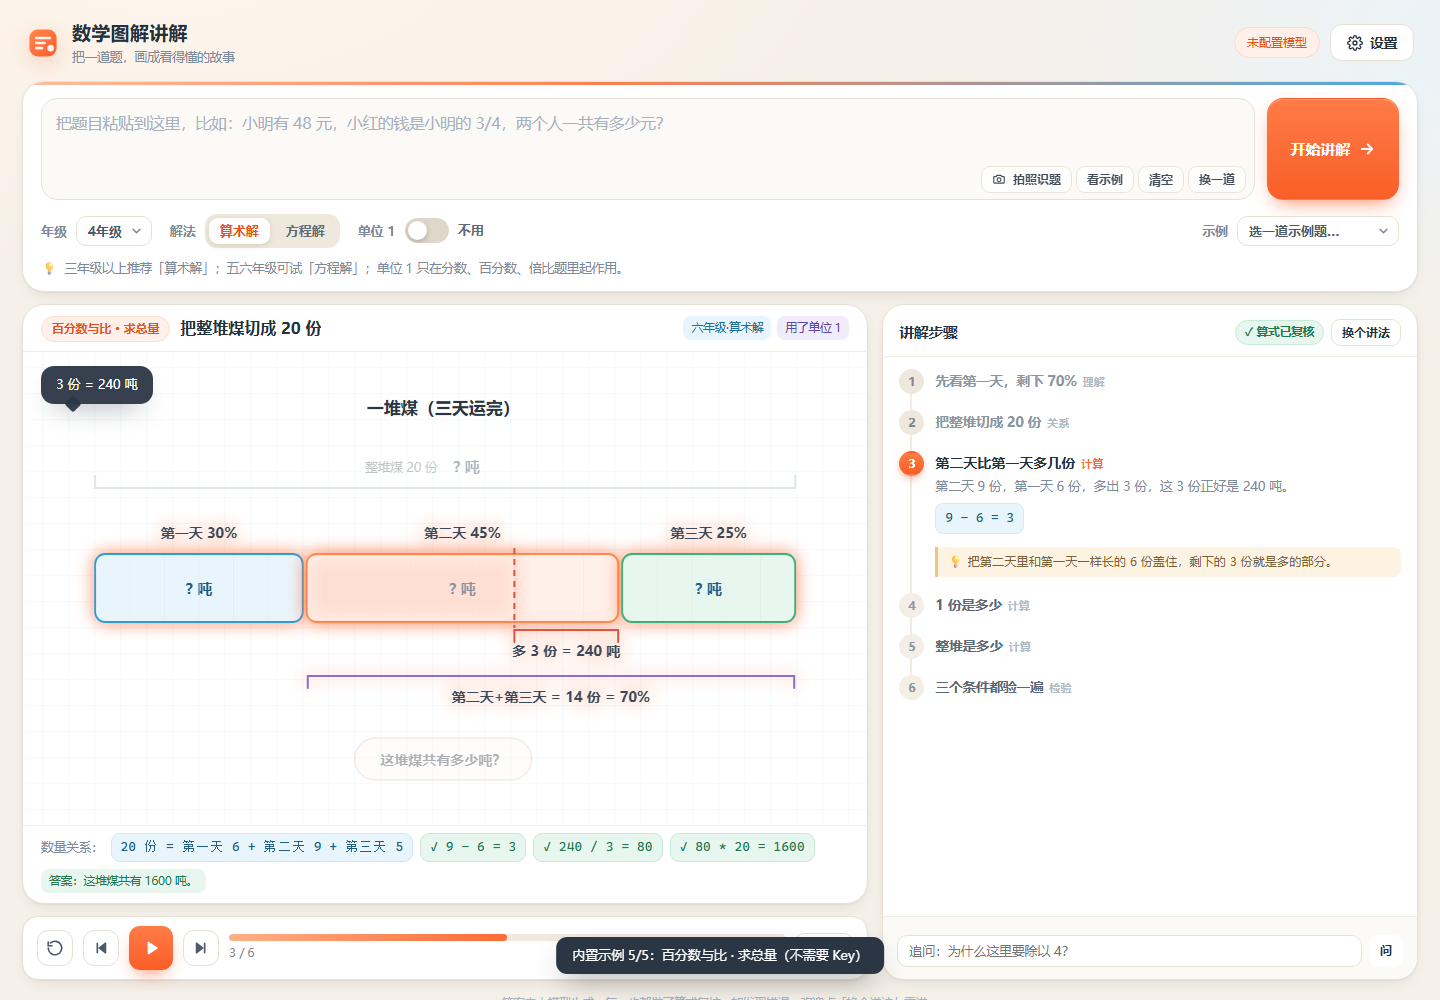
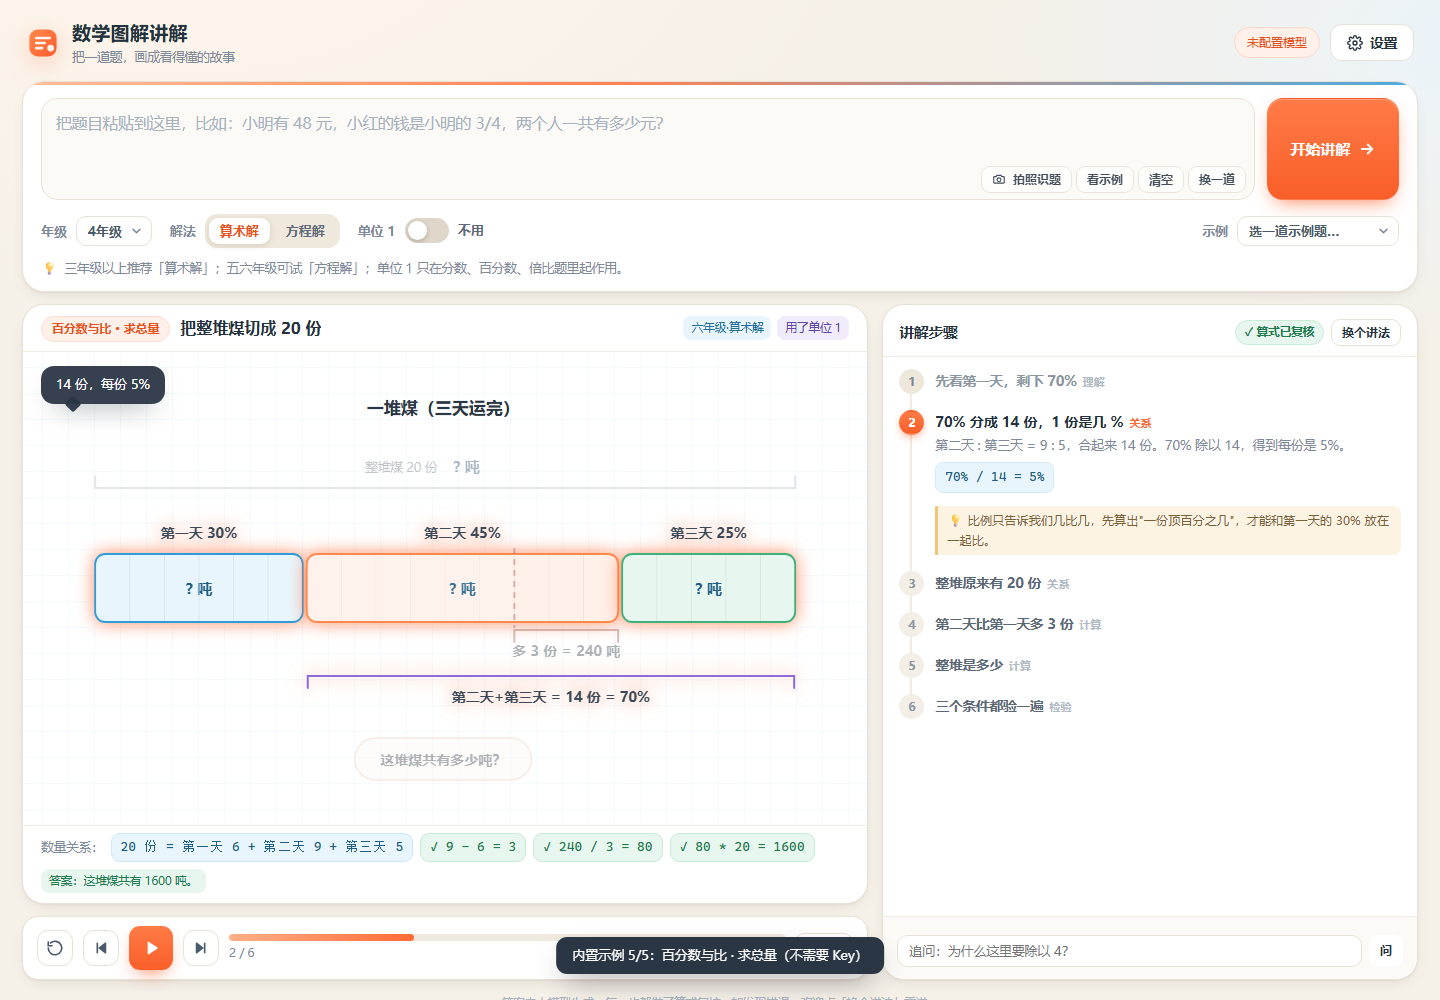
fix: 补齐"20 份"的来历，并把"新数量必须交代出处"写成硬规则
原讲解直接从 70% 跳到"把整堆切成 20 份"，孩子会卡在这。
正确链条是：70% 按 9:5 分成 14 份 → 70% ÷ 14 = 5%/份 → 30% ÷ 5 = 6 份 → 6 + 14 = 20 份。

- 内置示例 5 重写为 6 步，把"1 份是 5%""整堆 20 份"两步补上
- 提示词新增教学法 H：百分数/分数/比混用时先统一份数，再算
- 提示词新增规则 13：自己引入的新数量（几份、单位 1、假设值）
  必须在同一步当场算出它的来历，不许凭空出现
- 范例 E 同步改成正确的推导链
- 自测 72 项

diff --git a/src/js/45-demo.js b/src/js/45-demo.js
@@ -287,26 +287,26 @@
         ops: [{ op: 'focus', ids: ['a'], text: '第一天 30%' }, { op: 'focus', ids: ['b', 'c'], text: '合起来 70%' }]
       },
       {
-        phase: '关系', title: '把整堆切成 20 份',
-        text: '30% 正好是 20 份里的 6 份，剩下的 14 份按 9 : 5 分成 9 份和 5 份。',
-        math: '', why: '分母取 20，30% = 6/20，70% = 14/20，全都变成整数份，好算。',
-        ops: [{ op: 'focus', ids: ['g1'], text: '14 份 = 70%' }]
+        phase: '关系', title: '70% 分成 14 份，1 份是几 %',
+        text: '第二天 : 第三天 = 9 : 5，合起来 14 份。70% 除以 14，得到每份是 5%。',
+        math: '70% / 14 = 5%', why: '比例只告诉我们几比几，先算出"一份顶百分之几"，才能和第一天的 30% 放在一起比。',
+        ops: [{ op: 'focus', ids: ['g1'], text: '14 份，每份 5%' }]
       },
       {
-        phase: '计算', title: '第二天比第一天多几份',
-        text: '第二天 9 份，第一天 6 份，多出 3 份，这 3 份正好是 240 吨。',
-        math: '9 - 6 = 3', why: '把第二天里和第一天一样长的 6 份盖住，剩下的 3 份就是多的部分。',
-        ops: [{ op: 'focus', ids: ['cmp'], text: '3 份 = 240 吨' }]
+        phase: '关系', title: '整堆原来有 20 份',
+        text: '第一天 30% 里有 30 ÷ 5 = 6 份，加上后面的 14 份，整堆就是 6 + 14 = 20 份。',
+        math: '6 + 14 = 20', why: '份数要统一才能相加：前面算出 1 份 = 5%，所以 30% 正好是 6 份。',
+        ops: [{ op: 'focus', ids: ['a'], text: '6 份' }, { op: 'focus', ids: ['total'], text: '一共 20 份' }, { op: 'pulse', ids: ['total'] }]
       },
       {
-        phase: '计算', title: '1 份是多少',
-        text: '3 份是 240 吨，那 1 份就是 240 ÷ 3 = 80 吨。',
-        math: '240 / 3 = 80', why: '先求 1 份，最后才能求整堆。',
-        ops: [{ op: 'set', id: 'a', text: '480 吨' }, { op: 'set', id: 'b', text: '720 吨' }, { op: 'set', id: 'c', text: '400 吨' }]
+        phase: '计算', title: '第二天比第一天多 3 份',
+        text: '第二天 9 份、第一天 6 份，多出 3 份；这 3 份正好是 240 吨，所以 1 份 = 80 吨。',
+        math: '240 / 3 = 80', why: '把第二天里和第一天一样长的 6 份盖住，剩下的 3 份就是多的那部分。',
+        ops: [{ op: 'focus', ids: ['cmp'], text: '3 份 = 240 吨' }, { op: 'set', id: 'a', text: '480 吨' }, { op: 'set', id: 'b', text: '720 吨' }, { op: 'set', id: 'c', text: '400 吨' }]
       },
       {
         phase: '计算', title: '整堆是多少',
-        text: '一共 20 份，每份 80 吨，20 × 80 = 1600 吨。',
+        text: '整堆 20 份，每份 80 吨，20 × 80 = 1600 吨。',
         math: '80 * 20 = 1600', why: '份数 × 每份的量 = 总量。',
         ops: [{ op: 'set', id: 'total', text: '1600 吨' }, { op: 'pulse', ids: ['total'] }]
       },
